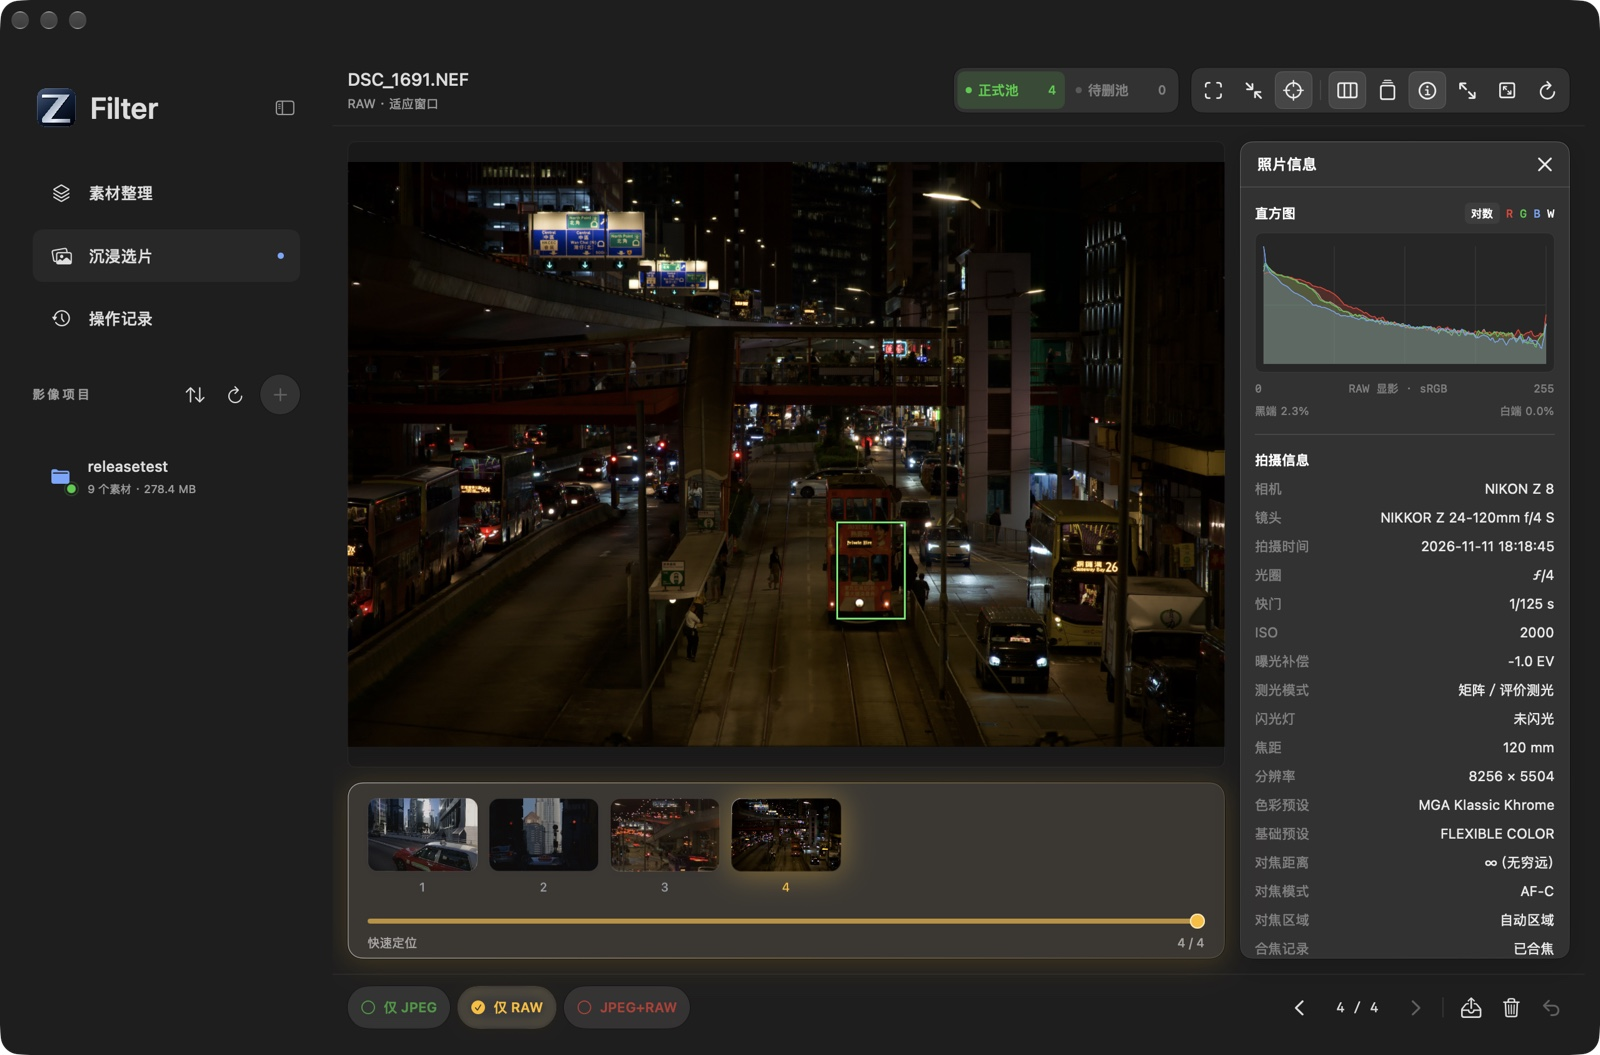
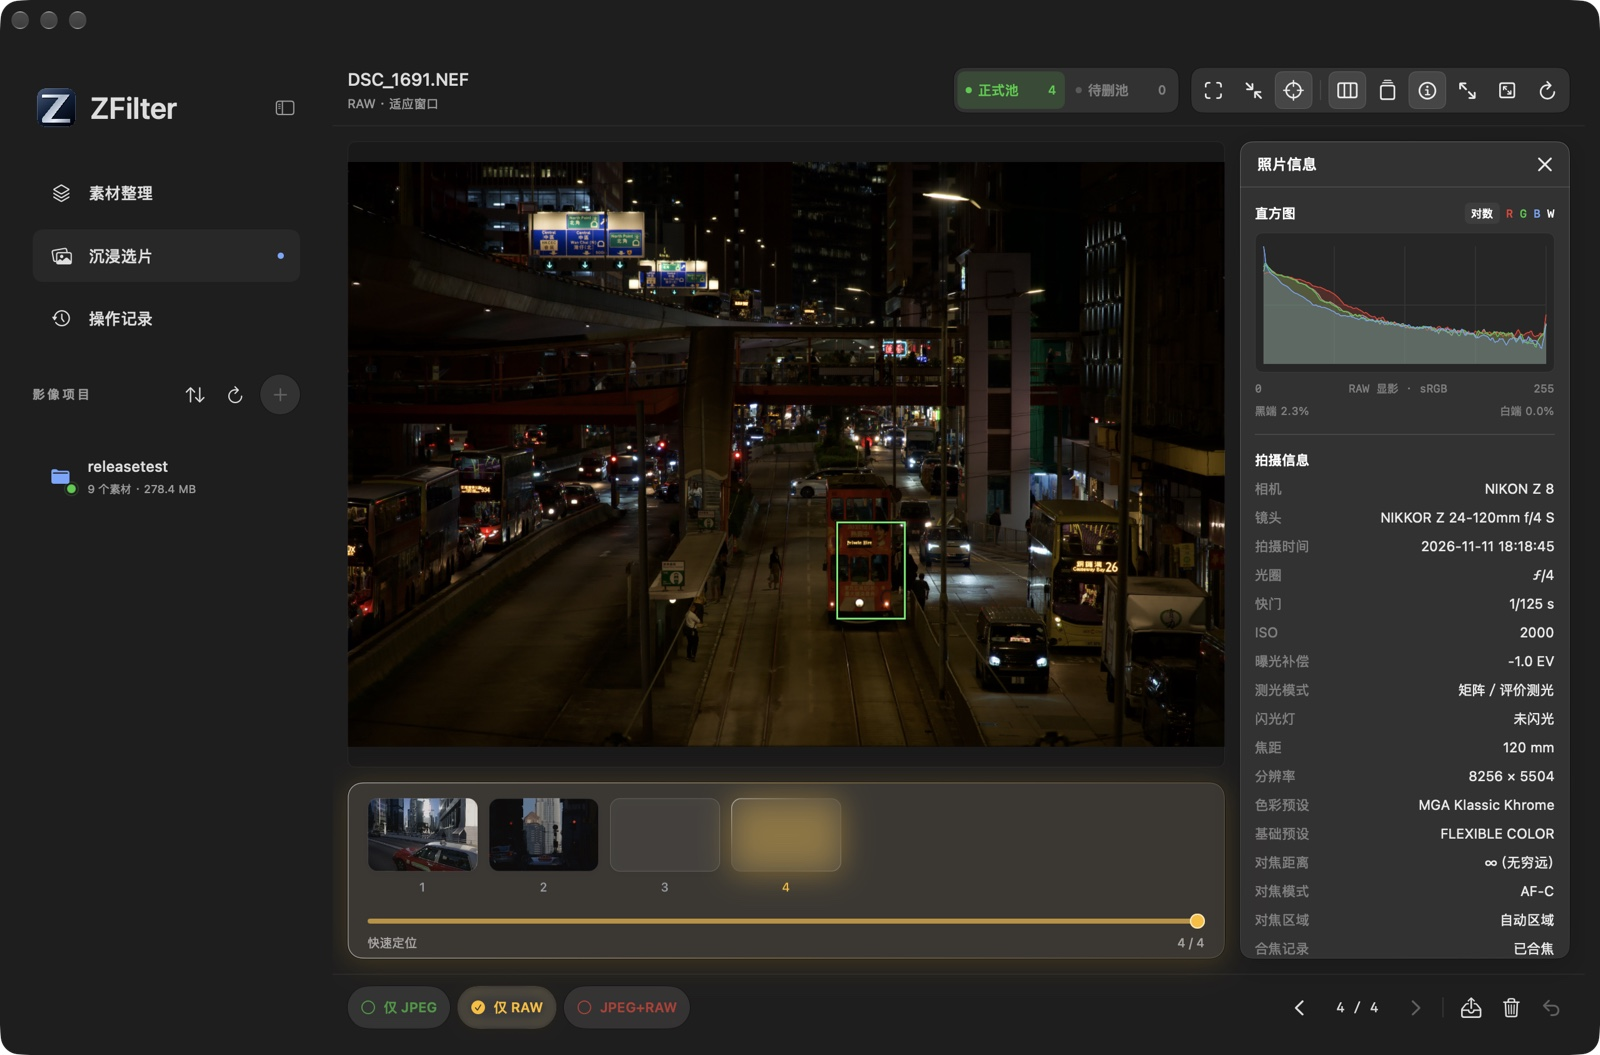
Rename project and macOS app to ZFilter

Changed region(s): [[0.375, 0.7583, 0.5312, 0.8493], [0.0625, 0.091, 0.125, 0.1213]]

diff --git a/GUI/Filter.swift b/GUI/Filter.swift
@@ -154,6 +154,7 @@ enum ProjectReadState { case ready, loading, failed }
     }
     init(preferences: UserDefaults = .standard, journal: URL? = nil) {
         self.preferences = preferences
+        // Keep the existing journal across the app's display-name change.
         self.journal = journal ?? FileManager.default.urls(for: .applicationSupportDirectory, in: .userDomainMask)[0].appendingPathComponent("Filter/trash-history.json")
         collapsed = preferences.bool(forKey: "sidebarCollapsed")
         appearance = FilterAppearance(rawValue: preferences.string(forKey: "filterAppearance") ?? "") ?? .system
@@ -654,7 +655,7 @@ struct ContentView: View {
                 HStack { Circle().fill(m.working ? FilterPalette.orange.color : accent).frame(width: 5, height: 5); Text(m.status).font(.system(size: 11)).foregroundStyle(.secondary); Spacer() }.padding(.horizontal, 24).padding(.bottom, 10)
             }
         }
-        .alert("Filter", isPresented: Binding(get: { m.error != nil }, set: { if !$0 { m.error = nil } })) { Button("好") { m.error = nil } } message: { Text(m.error ?? "") }
+        .alert("ZFilter", isPresented: Binding(get: { m.error != nil }, set: { if !$0 { m.error = nil } })) { Button("好") { m.error = nil } } message: { Text(m.error ?? "") }
         .confirmationDialog(m.dry ? "开始演练？文件不会移动。" : "整理所选目录及其子文件夹中的素材？输出将写入：\n" + m.root + "\n可通过整理日志撤销。", isPresented: $confirmRun, titleVisibility: .visible) { Button(m.dry ? "开始演练" : "开始整理") { Task { await m.run() } } }
         .confirmationDialog("撤销最近一次整理，将文件移回原目录？", isPresented: $confirmUndo, titleVisibility: .visible) { Button("撤销整理") { Task { await m.run(true) } } }
         .onChange(of: m.mode) { _, _ in m.schedulePreview() }.onChange(of: m.travel) { _, _ in m.schedulePreview() }.onChange(of: m.rules) { _, _ in m.schedulePreview() }
@@ -685,11 +686,11 @@ struct ContentView: View {
             HStack(spacing: 8) {
                 Image(nsImage: AppArtwork.icon).resizable().scaledToFit()
                     .frame(width: size, height: size).clipShape(RoundedRectangle(cornerRadius: m.collapsed ? 9 : 11))
-                if !m.collapsed { Text("Filter").font(.system(size: 24, weight: .semibold)) }
+                if !m.collapsed { Text("ZFilter").font(.system(size: 24, weight: .semibold)) }
             }.frame(width: m.collapsed ? 44 : nil, height: 44).contentShape(Rectangle())
         }.buttonStyle(.plain)
             .help(dark ? "切换为浅色模式" : "切换为深色模式")
-            .accessibilityLabel("切换 Filter 外观")
+            .accessibilityLabel("切换 ZFilter 外观")
             .accessibilityValue(dark ? "深色模式" : "浅色模式")
     }
     var projectSortMenu: some View {
@@ -1071,7 +1072,7 @@ struct FilterApp: App {
     @StateObject var model = Model()
     @State private var didApplyLaunchPhoto = false
     var body: some Scene {
-        WindowGroup("Filter") { ContentView().environmentObject(model).onAppear {
+        WindowGroup("ZFilter") { ContentView().environmentObject(model).onAppear {
             NSApp.applicationIconImage = AppArtwork.icon; NSApp.dockTile.display()
             model.startProjectMonitoring()
             if let i = CommandLine.arguments.firstIndex(of: "--project"), CommandLine.arguments.indices.contains(i+1), model.root.isEmpty { model.open(CommandLine.arguments[i+1]) }

diff --git a/GUI/DrawIcon.swift b/GUI/DrawIcon.swift
@@ -30,7 +30,7 @@ func drawIcon(_ c: CGContext) {
 }
 let output = URL(fileURLWithPath:CommandLine.arguments[1])
 let fm = FileManager.default
-let iconset = output.appendingPathComponent("Filter.iconset")
+let iconset = output.appendingPathComponent("ZFilter.iconset")
 try fm.createDirectory(at:iconset,withIntermediateDirectories:true)
 var media = CGRect(x:0,y:0,width:1024,height:1024)
 let pdf = output.appendingPathComponent("AppIcon.pdf")

diff --git a/docs/tutorial.md b/docs/tutorial.md
@@ -1,12 +1,12 @@
-# Filter 图文使用教程
+# ZFilter 图文使用教程
 
-[返回项目介绍](../README.md) · [下载安装包](https://github.com/ARCHIC001/Filter/releases/latest) · [命令行指南](cli.md)
+[返回项目介绍](../README.md) · [下载安装包](https://github.com/ARCHIC001/ZFilter/releases/latest) · [命令行指南](cli.md)
 
 以下步骤使用名为 `releasetest` 的实际项目副本，内有 Nikon Z8 的 4 对 JPEG／NEF 和 1 段 MOV。你可以用自己的素材副本逐步操作。
 
 ## 安装和首次启动
 
-1. 下载 **Filter-1.9.6-macOS-arm64.dmg**。它适用于 Apple Silicon Mac，要求 macOS 26 或更新版本。
+1. 下载 **ZFilter-1.9.7-macOS-arm64.dmg**。它适用于 Apple Silicon Mac，要求 macOS 26 或更新版本。
 2. 如需校验，同时下载 **SHA256SUMS.txt**，将两个文件放在同一目录。如果放在「下载」，可在终端运行以下命令，看到 `OK` 后再打开映像。
 
    ```sh
@@ -14,9 +14,11 @@
    shasum -a 256 -c SHA256SUMS.txt
    ```
 
-3. 在 Finder 打开 DMG，把 **Filter.app** 拖到 **Applications**，然后从「应用程序」打开 Filter。当前版本使用 ad-hoc 签名，尚未通过 Apple 公证。若 macOS 阻止启动，核对下载来源和校验结果后，按 Apple 指南在「系统设置 → 隐私与安全性」为 Filter 确认打开。 [Apple 安全打开指南](https://support.apple.com/zh-cn/102445)
-4. 这版使用系统路径 `/usr/bin/python3`。如果该路径首次运行时提示安装开发者工具，可执行 `xcode-select --install` 完成安装，再重新打开 Filter。 [Apple 命令行工具安装说明](https://developer.apple.com/documentation/xcode/installing-the-command-line-tools)
+3. 在 Finder 打开 DMG，把 **ZFilter.app** 拖到 **Applications**，然后从「应用程序」打开 ZFilter。当前版本使用 ad-hoc 签名，尚未通过 Apple 公证。若 macOS 阻止启动，核对下载来源和校验结果后，按 Apple 指南在「系统设置 → 隐私与安全性」为 ZFilter 确认打开。 [Apple 安全打开指南](https://support.apple.com/zh-cn/102445)
+4. 这版使用系统路径 `/usr/bin/python3`。如果该路径首次运行时提示安装开发者工具，可执行 `xcode-select --install` 完成安装，再重新打开 ZFilter。 [Apple 命令行工具安装说明](https://developer.apple.com/documentation/xcode/installing-the-command-line-tools)
 5. 如果系统提示访问文稿或外置卷，请允许访问本次要整理的素材所在位置。
+
+从 1.9.6 升级时，先退出旧版再安装 ZFilter。项目列表、外观设置和撤回记录会自动沿用。确认新版正常后，可以将旧版应用移出「应用程序」。
 
 ## 1. 打开目录并核对项目统计
 
@@ -59,6 +61,8 @@ releasetest/
 
 点击侧栏「沉浸选片」或整理完成后的「开始选片」。左下角三个按钮同时决定浏览范围和 **W / S / Delete** 操作范围。
 
+![ZFilter 沉浸选片页，显示照片、绿色对焦框、预览条和三个文件范围按钮](images/viewer.jpg)
+
 | 按钮 | 浏览 | 文件操作范围 |
 | --- | --- | --- |
 | 绿 · **仅 JPEG** | 所有 JPEG | 当前 JPEG |
@@ -70,7 +74,7 @@ releasetest/
 - 用 **← / →** 或 **A / D** 逐张浏览。也可点击缩略图，横向拖动预览条，或者拖动下方的「快速定位」轨道后松手跳转。
 - 单击照片可在点击处放大到原始像素，拖动查看细节，再点一次缩回。**0 / O** 会开启跨图保持的 100% 对焦点放大；照片没有可用的对焦坐标时以画面中心放大。按 **、** 或点击工具栏缩小按钮，恢复适应窗口。
 - **F** 显示或隐藏相机记录的绿色对焦框。**T** 开关预览条。支持的连拍有 **×张数** 或 **帧序号／张数** 角标，点角标只切换这一组，**B** 或顶部叠片按钮切换所有组。
-- **Tab** 隐藏或恢复侧栏，左上角 Logo 或「Filter」切换深浅色。
+- **Tab** 隐藏或恢复侧栏，左上角 Logo 或「ZFilter」切换深浅色。
 
 ## 4. 用直方图、对焦与配对信息判断
 
@@ -87,7 +91,7 @@ releasetest/
 1. 确认左下角选中的文件范围。在绿色「正式池」中选中照片并按 **W**。示例选择红色 **JPEG+RAW**，因此两份配对文件一起移到待删池。
 2. 点击顶部「待删池」。此时按钮变为橙色，示例中显示 **正式池 3、待删池 1**。可以像正式池一样放大并查看详情。
 3. 反悔时按 **W** 恢复当前照片所选范围的文件。确认移除时按 **S** 或 **Delete**，文件进入 macOS 废纸篓。
-4. 需要撤回最近一次废纸篓操作时按 **⌘Z**。如果那张照片原先位于待删池，撤回后可以回到待删池再按 **W** 恢复至正式池。清空系统废纸篓后，Filter 无法从中恢复文件。
+4. 需要撤回最近一次废纸篓操作时按 **⌘Z**。如果那张照片原先位于待删池，撤回后可以回到待删池再按 **W** 恢复至正式池。清空系统废纸篓后，ZFilter 无法从中恢复文件。
 
 ![待删池以橙色高亮，显示 1 对照片等待复核，正式池剩余 3 对](images/review-pool.jpg)
 
@@ -99,7 +103,7 @@ releasetest/
 
 ## 常见问题
 
-- **只看到 JPEG 或 RAW 的一边。** 确认所选项目包含两类文件并刷新。Filter 优先依据整理日志，其次依据同目录或项目内唯一同名候选，并在可读时核对 EXIF 日期。出现歧义时，使用单文件范围查看和处理；详情可核对配对依据。
+- **只看到 JPEG 或 RAW 的一边。** 确认所选项目包含两类文件并刷新。ZFilter 优先依据整理日志，其次依据同目录或项目内唯一同名候选，并在可读时核对 EXIF 日期。出现歧义时，使用单文件范围查看和处理；详情可核对配对依据。
 - **外置盘拔出后项目变黄。** 接回磁盘并刷新项目。右键「删除项目」只移除列表记录。
 - **没有绿色对焦框或连拍角标。** 打开对应功能，并确认文件自身带有兼容的 Nikon 对焦或连拍记录。对焦距离也是镜头记录的估算值。
 - **想批量调用整理规则。** 使用项目保留的 [nikonfilter 命令行入口](cli.md)。

diff --git a/README.md b/README.md
@@ -1,31 +1,31 @@
 <div align="center">
-  <img src="docs/images/filter-icon.png" width="104" alt="Filter 应用图标">
-  <h1>Filter</h1>
+  <img src="docs/images/zfilter-icon.png" width="104" alt="ZFilter 应用图标">
+  <h1>ZFilter</h1>
   <p>在 Mac 上整理 JPEG、RAW 与视频，再从一组配对照片里选出要保留的画面。</p>
   <p><strong>macOS 26+</strong> · <strong>Apple Silicon</strong> · SwiftUI / AppKit · Liquid Glass</p>
-  <p><a href="https://github.com/ARCHIC001/Filter/releases/latest">下载 macOS 安装包</a> · <a href="docs/tutorial.md">图文使用教程</a> · <a href="docs/cli.md">命令行指南</a></p>
+  <p><a href="https://github.com/ARCHIC001/ZFilter/releases/latest">下载 macOS 安装包</a> · <a href="docs/tutorial.md">图文使用教程</a> · <a href="docs/cli.md">命令行指南</a></p>
 </div>
 
-![Filter 沉浸选片，显示香港街景、绿色相机对焦框、红色配对预览条和正式池](docs/images/viewer.jpg)
+![ZFilter 沉浸选片，右侧打开 EXIF 照片信息面板，显示直方图、曝光参数和 Nikon 色彩预设](docs/images/inspector.jpg)
 
 ## 从目录整理到沉浸选片
 
-Filter 以一个素材文件夹为项目，递归清点文件、验证 JPEG／RAW 配对，并预览每条整理规则的结果。确认整理后，JPEG、RAW 和视频会进入各自的目录。照片分开存放后，仍可在同一个项目里作为一对查看、暂存和恢复。
+ZFilter 以一个素材文件夹为项目，递归清点文件、验证 JPEG／RAW 配对，并预览每条整理规则的结果。确认整理后，JPEG、RAW 和视频会进入各自的目录。照片分开存放后，仍可在同一个项目里作为一对查看、暂存和恢复。
 
-| 工作 | Filter 提供 |
+| 工作 | ZFilter 提供 |
 | --- | --- |
 | **清点与整理** | 查看项目体积、数量和格式。支持普通、RED、自定义规则、按 EXIF 日期分组的旅行模式，以及只预演的演练模式。每次正式整理留下可撤销的记录。 |
 | **配对与查看** | 按整理日志和目录内的唯一候选验证配对。查看全部 JPEG、原生显影 RAW，或仅查看已配对的 JPEG。 |
 | **放大与筛选** | 单击 1:1，按 **0** 在相机记录的对焦点放大并跨照片保持。预览条显示前后三张，定位轨跨越整个列表，受支持的 Nikon 连拍可以逐组折叠。 |
 | **待删复核** | 正式池中按 **W** 暂存，待删池中按 **W** 恢复。按 **S** 或 **Delete** 移入系统废纸篓，按 **⌘Z** 撤回最近一次删除。 |
 | **照片信息** | 查看 RGB 与亮度直方图、曝光补偿、测光、闪光、Nikon 色彩预设、对焦距离和 JPEG／RAW 各自的文件大小。 |
-| **项目与外观** | 项目支持置顶、排序和外置磁盘在线状态。点击左上角 Logo 或「Filter」切换深浅色。 |
+| **项目与外观** | 项目支持置顶、排序和外置磁盘在线状态。点击左上角 Logo 或「ZFilter」切换深浅色。 |
 
 ## 安装
 
-1. 在 [GitHub Releases](https://github.com/ARCHIC001/Filter/releases/latest) 下载 `Filter-1.9.6-macOS-arm64.dmg`。
-2. 打开磁盘映像，将 **Filter.app** 拖到 **Applications**。已有旧版时，先退出运行中的 Filter。
-3. 从「应用程序」打开 Filter。整理引擎使用 `/usr/bin/python3`，如果系统提示缺少命令行工具，按提示安装，或在终端运行 `xcode-select --install`。 [Apple 命令行工具安装说明](https://developer.apple.com/documentation/xcode/installing-the-command-line-tools)
+1. 在 [GitHub Releases](https://github.com/ARCHIC001/ZFilter/releases/latest) 下载 `ZFilter-1.9.7-macOS-arm64.dmg`。
+2. 打开磁盘映像，将 **ZFilter.app** 拖到 **Applications**。已有旧版时，先退出运行中的 ZFilter。
+3. 从「应用程序」打开 ZFilter。整理引擎使用 `/usr/bin/python3`，如果系统提示缺少命令行工具，按提示安装，或在终端运行 `xcode-select --install`。 [Apple 命令行工具安装说明](https://developer.apple.com/documentation/xcode/installing-the-command-line-tools)
 4. 当前下载包使用 ad-hoc 签名，首次打开时 macOS 可能要求确认。安装前可对照发布页的 SHA-256，按 Apple 的说明处理首次启动提示。 [校验与首次启动](docs/tutorial.md#安装和首次启动) · [Apple 安全打开指南](https://support.apple.com/zh-cn/102445)
 
 ## 快速上手
@@ -47,4 +47,4 @@ bash GUI/build.sh
 bash GUI/package.sh
 ```
 
-应用写入 `build/Filter.app`，DMG 与校验文件写入 `build/dist/`。整理引擎也可通过 `./nikonfilter` 运行。 [命令行指南](docs/cli.md) · [验证与元数据参考](docs/development.md)
+应用写入 `build/ZFilter.app`，DMG 与校验文件写入 `build/dist/`。整理引擎也可通过 `./nikonfilter` 运行。 [命令行指南](docs/cli.md) · [验证与元数据参考](docs/development.md)

diff --git a/docs/development.md b/docs/development.md
@@ -1,4 +1,4 @@
-# 构建与验证
+# ZFilter 构建与验证
 
 [返回项目介绍](../README.md) · [图文使用教程](tutorial.md)
 
@@ -11,7 +11,7 @@ bash GUI/build.sh
 bash GUI/package.sh
 ```
 
-- `build/Filter.app` 是原生应用。也可用 `bash GUI/build.sh --install` 安装到 `~/Applications`。
+- `build/ZFilter.app` 是原生应用。也可用 `bash GUI/build.sh --install` 安装到 `~/Applications`。
 - `build/dist/` 包含带「Applications」快捷方式的 DMG 和 SHA-256 文件。
 - `GUI/DrawIcon.swift` 生成应用图标。应用内包含整理桥接脚本和 CLI 核心，运行时使用 `/usr/bin/python3`。
 - 本地构建默认使用 ad-hoc 签名。GitHub 分发包的签名和首次启动步骤见 [图文教程](tutorial.md#安装和首次启动)。

diff --git a/docs/cli.md b/docs/cli.md
@@ -1,6 +1,6 @@
-# nikonfilter 命令行指南
+# ZFilter 命令行指南
 
-适用于终端和批处理。GUI 安装与选片请参见 [Filter 使用教程](tutorial.md)。
+在终端和批处理中使用 `nikonfilter` 命令。GUI 安装与选片请参见 [ZFilter 使用教程](tutorial.md)。
 
 ## 适用场景
 
@@ -301,7 +301,7 @@ source ~/.zshrc
 - 主程序：`nikonfilter.py`
 - 启动器：`nikonfilter`
 - 安装脚本：`install.sh`
-- GUI 文档见 [Filter 使用教程](tutorial.md)。
+- GUI 文档见 [ZFilter 使用教程](tutorial.md)。
 
 ---
 
